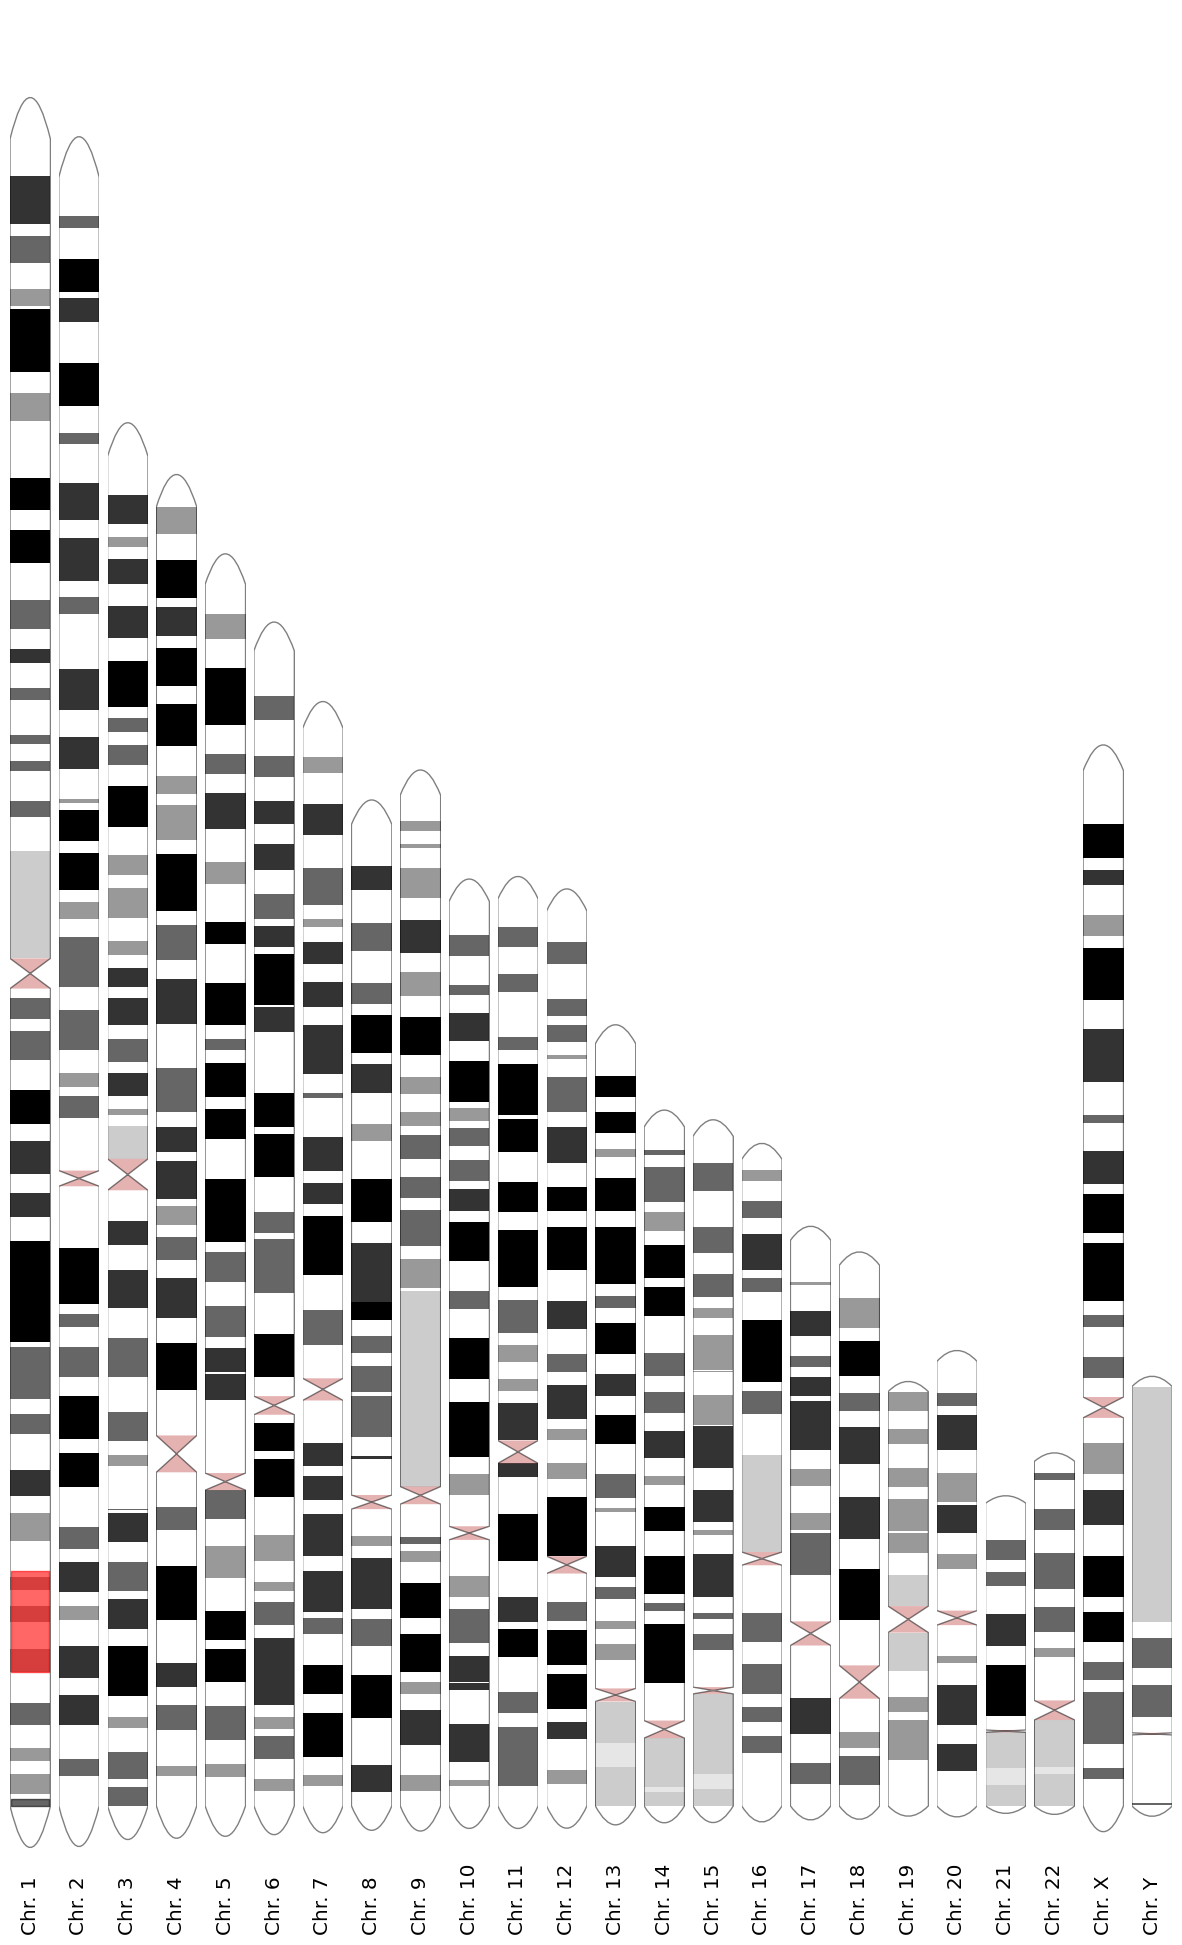
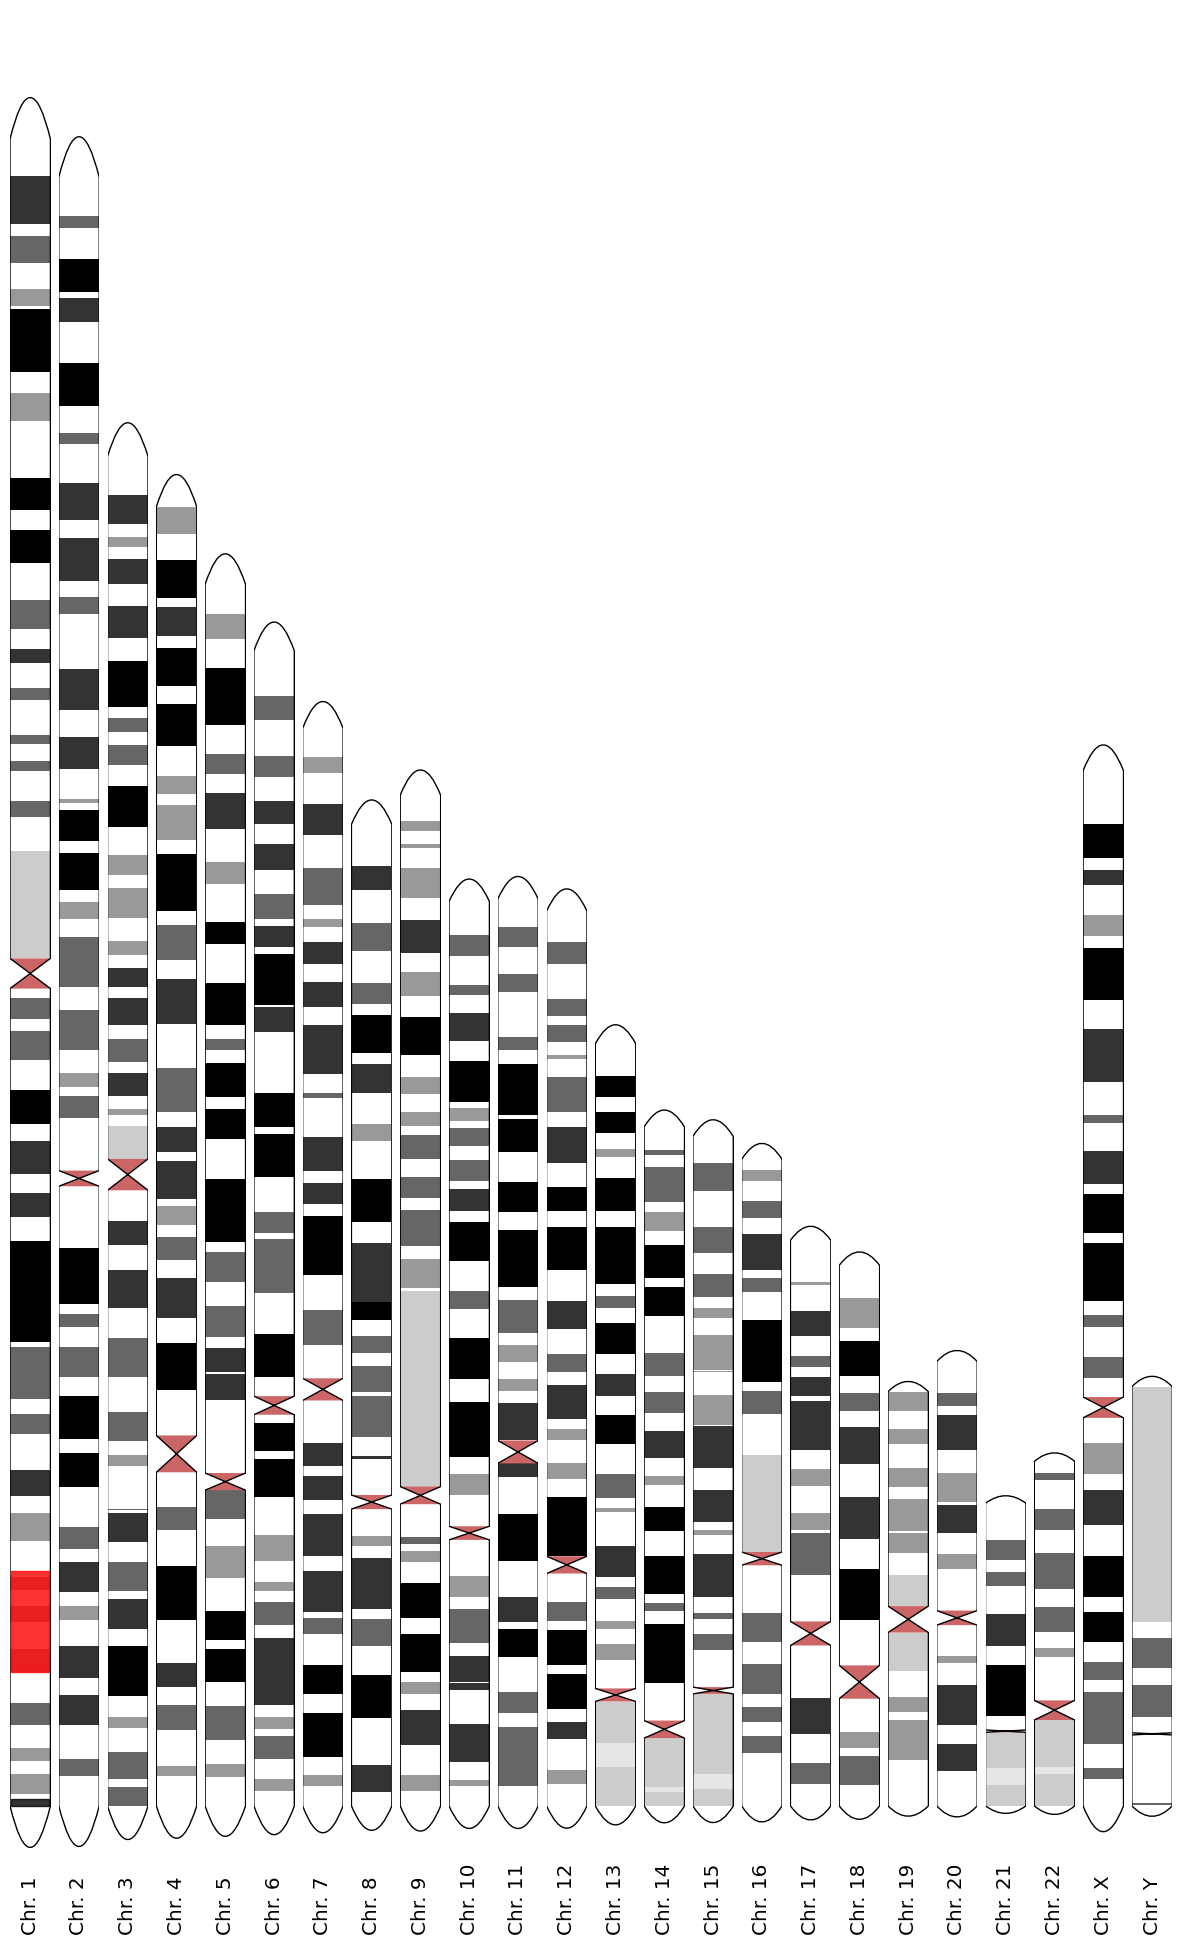
hotfix alphas and zorders

diff --git a/src/pyryotype/ideogram.py b/src/pyryotype/ideogram.py
@@ -172,12 +172,12 @@ def plot_ideogram(
             x_range = (lower_anchor, height)
             face_colours = iter(df["colour"])
             for yrange in yranges:
-                ax.broken_barh([(0, 1)], yrange, facecolors=next(face_colours), zorder=1)
+                ax.broken_barh([(lower_anchor, height - 0.01)], yrange, facecolors=next(face_colours), zorder=1)
 
             (max(x_range) - min(x_range)) / 2
 
         else:
-            ax.broken_barh(xrange, yrange, facecolors=df["colour"], alpha=1, zorder=1)
+            ax.broken_barh(xrange, yrange, facecolors=df["colour"], alpha=0.6)
 
     # Define and draw the centromere using the rows marked as 'cen' in the 'gieStain' column
     cen_df = df[df["gieStain"].str.contains("cen")]
@@ -214,14 +214,14 @@ def plot_ideogram(
     if vertical == Orientation.VERTICAL:
         outline = [(command, coords[::-1]) for command, coords in outline]
         cen_poly = [coords[::-1] for coords in cen_poly]
-    cen_patch = PathPatch(MplPath(cen_poly), facecolor=(0.8, 0.4, 0.4), lw=0, alpha=1, zorder=1)
+    cen_patch = PathPatch(MplPath(cen_poly), facecolor=(0.8, 0.4, 0.4), lw=0, alpha=1, zorder=2)
     ax.add_patch(cen_patch)
 
     chr_move, chr_poly = zip(
         *outline,
         strict=True,
     )
-    chr_patch = PathPatch(MplPath(chr_poly, chr_move), fill=None, joinstyle="round", alpha=1, zorder=1)
+    chr_patch = PathPatch(MplPath(chr_poly, chr_move), fill=None, joinstyle="round", alpha=1, zorder=2)
     ax.add_patch(chr_patch)
 
     # If start and stop positions are provided, draw a rectangle to highlight this region
@@ -255,8 +255,8 @@ def plot_ideogram(
                 fill=kwargs.get("fill", True),
                 color=r_colour,
                 joinstyle="round",
-                zorder=2,
-                alpha=0.6,
+                zorder=3,
+                alpha=0.8,
             )
             ax.add_patch(r)
 
